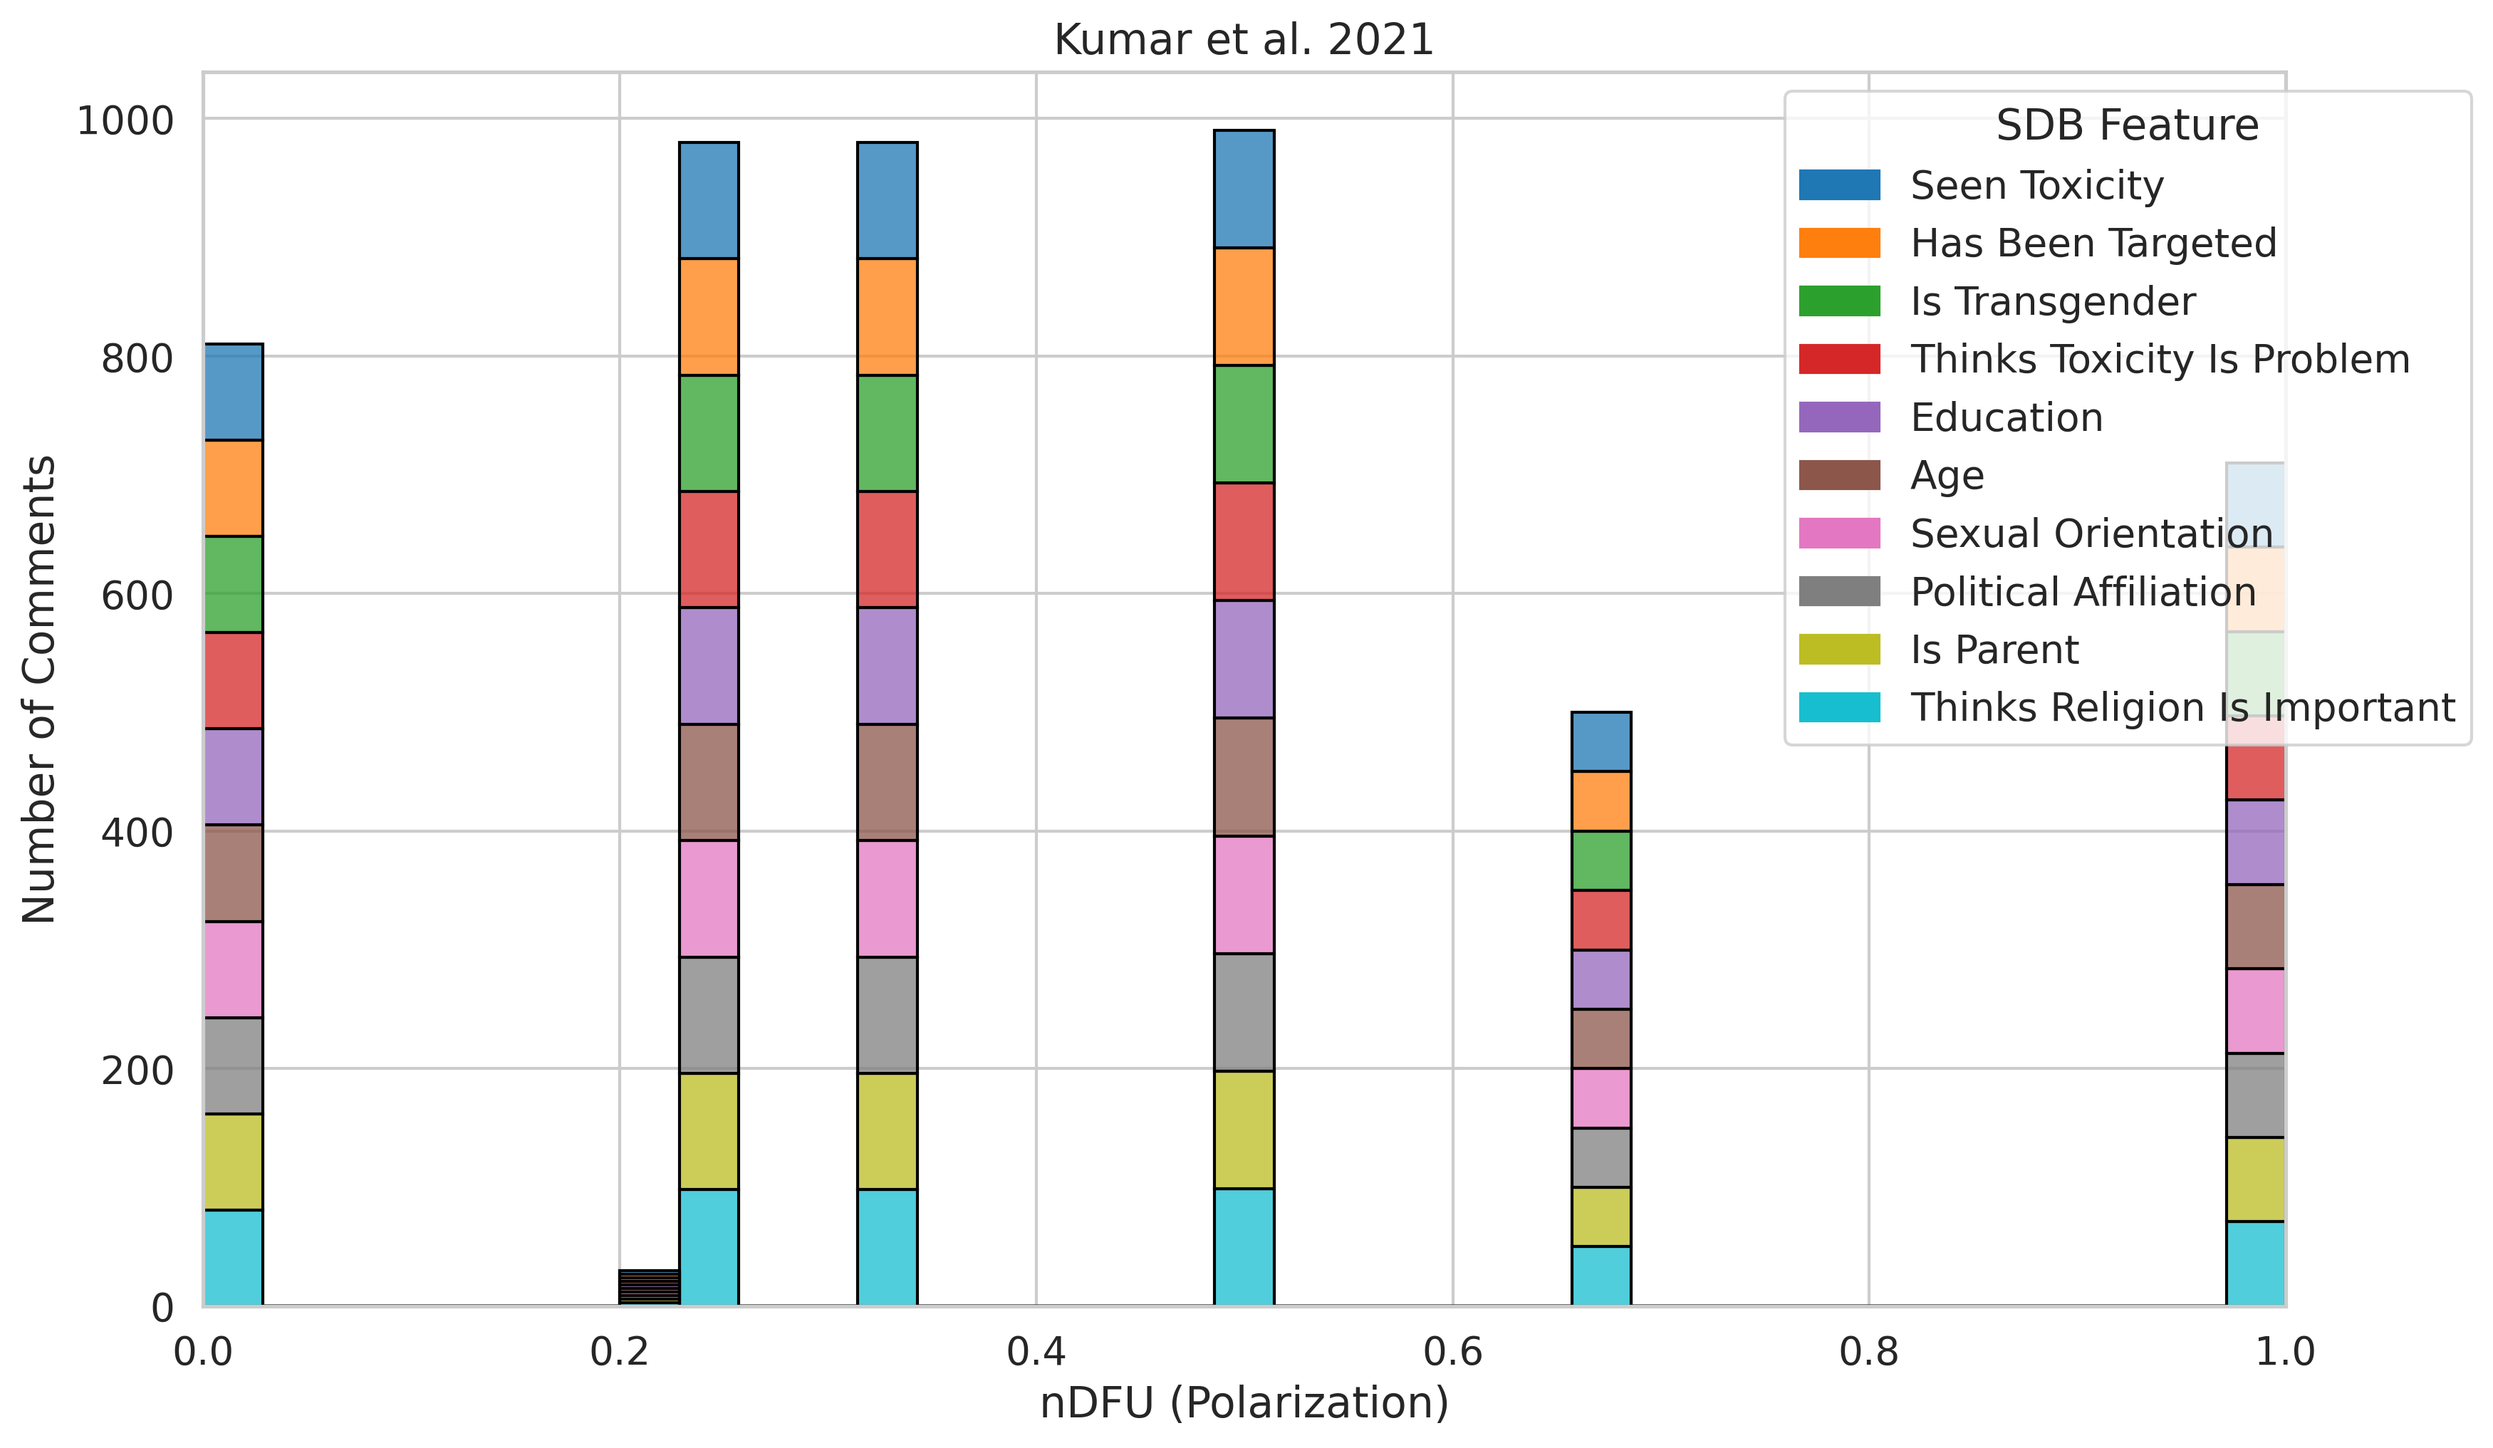
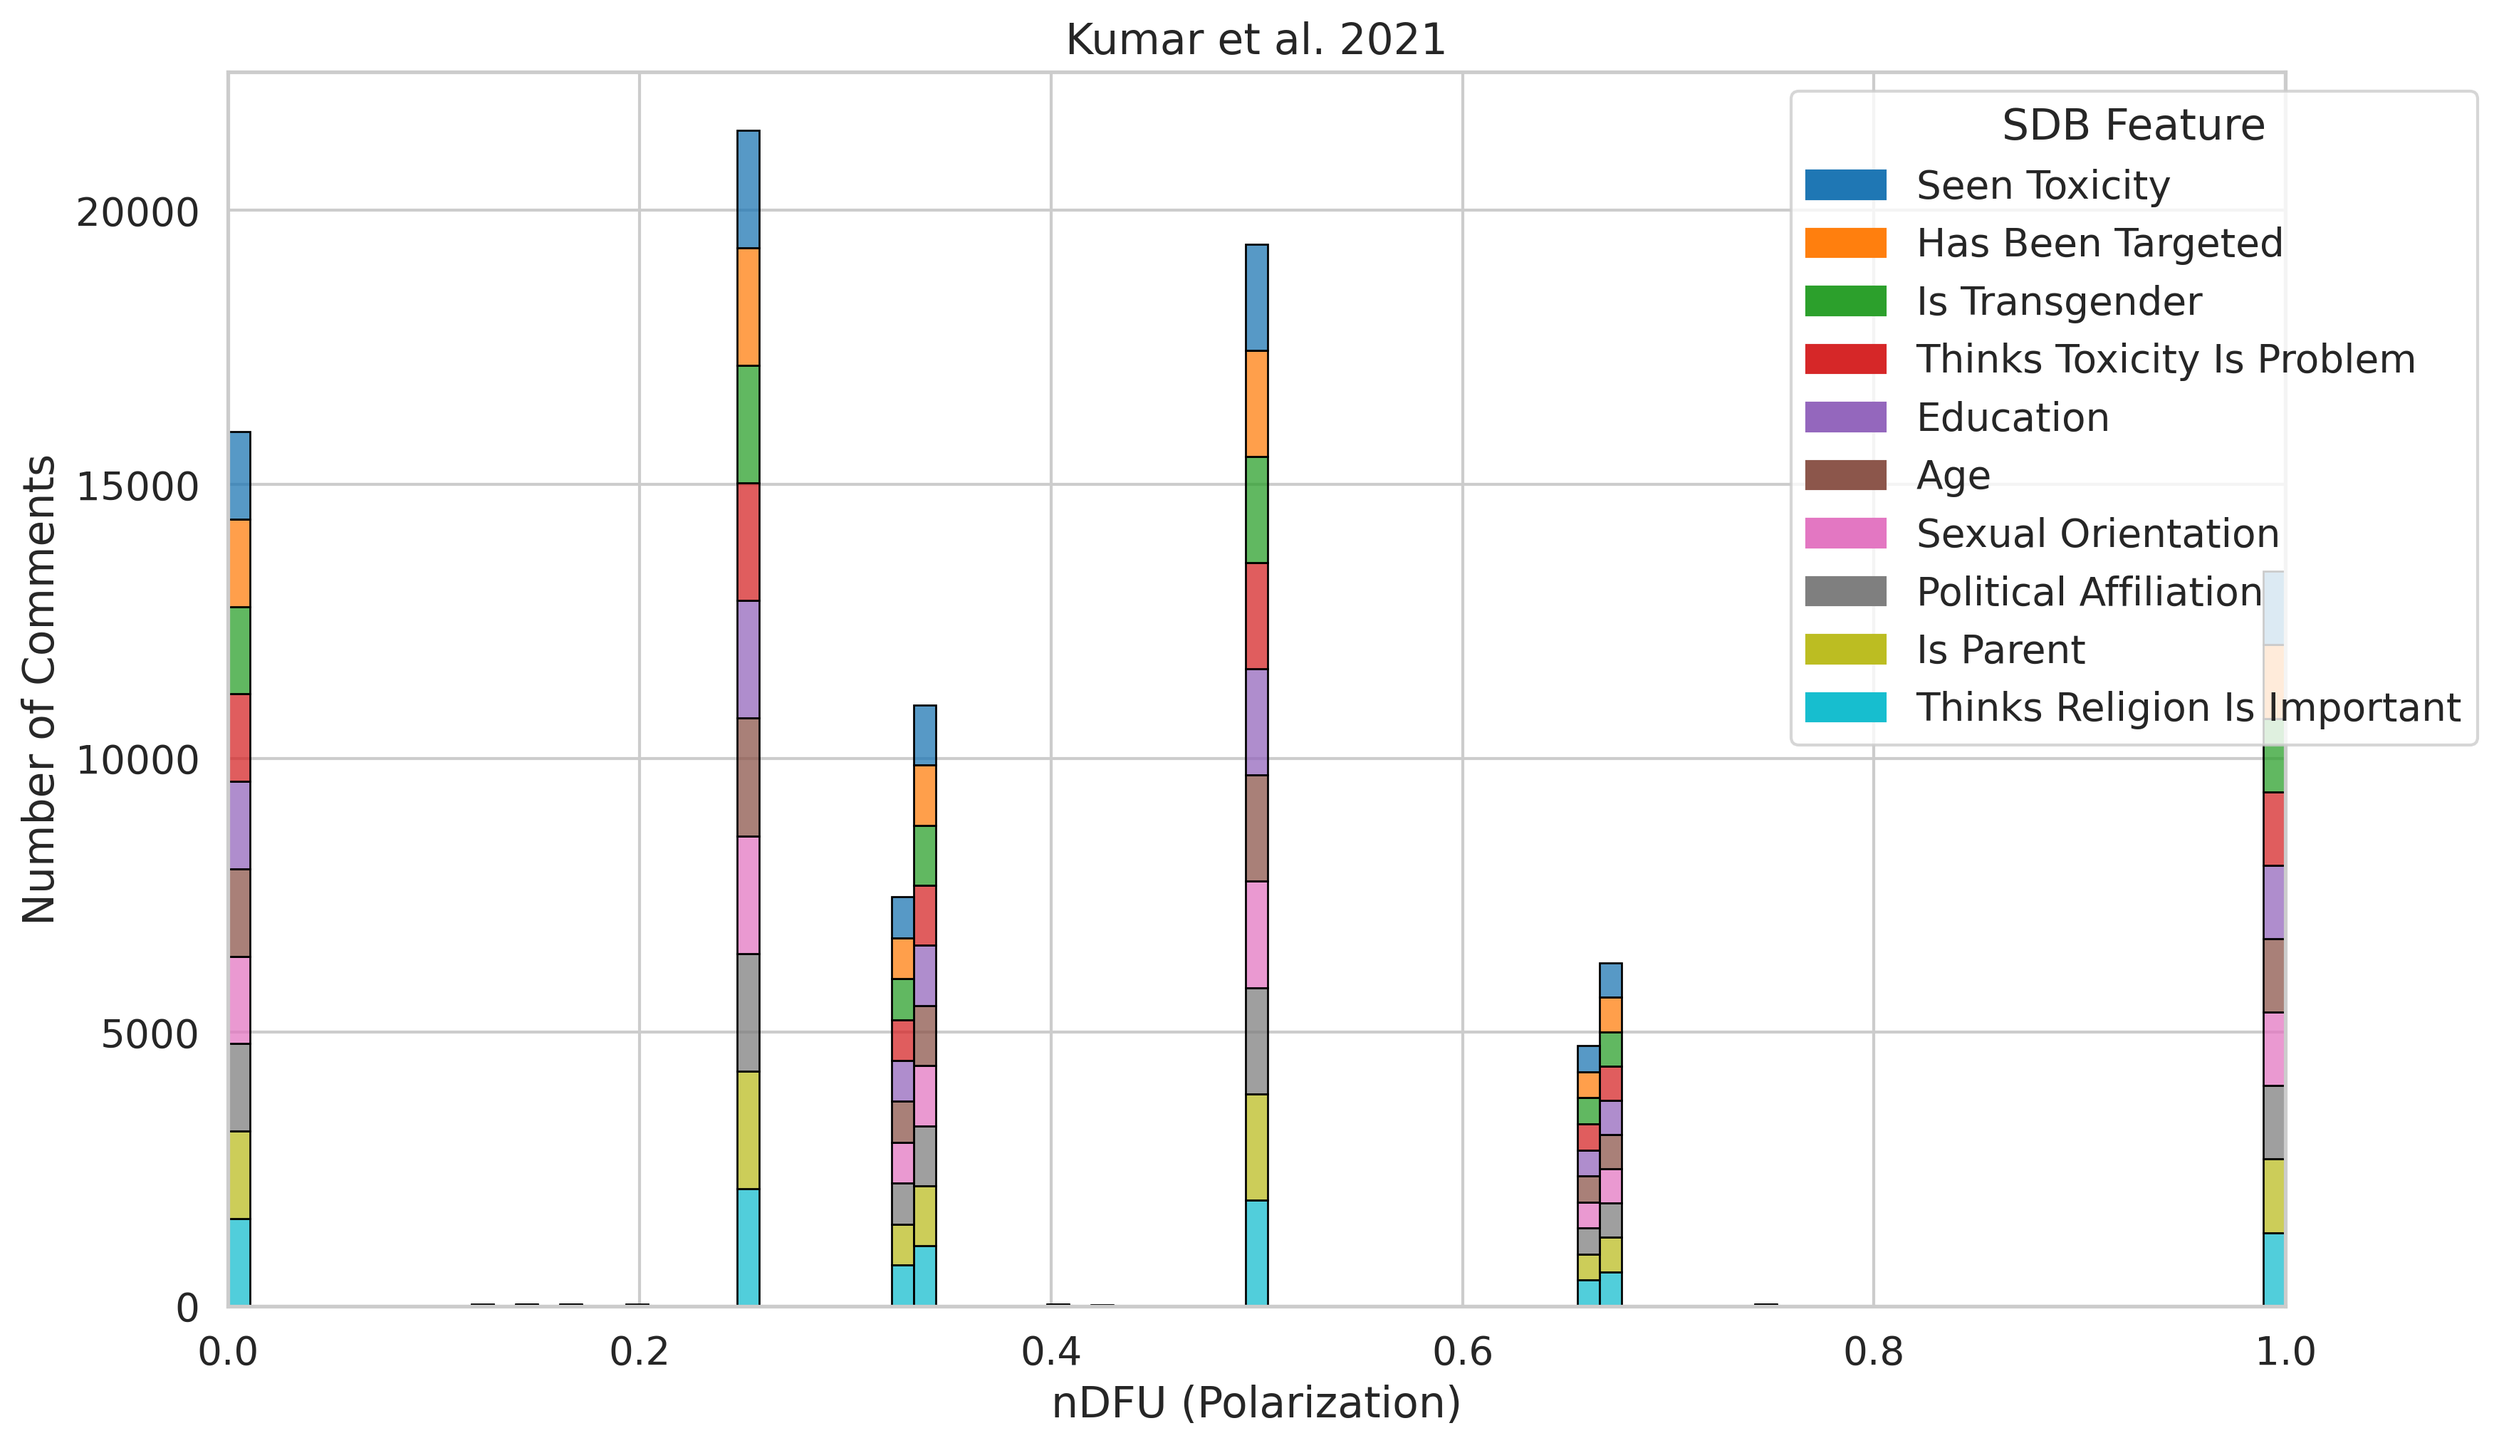
add more samples to kumar and make sampling deterministic

diff --git a/src/real_life_kumar.py b/src/real_life_kumar.py
@@ -6,7 +6,7 @@ import pandas as pd
 from .tasks import preprocessing
 from .tasks import run_helper
 
-NUM_COMMENTS = 500
+NUM_COMMENTS = 10000
 
 
 class KumarDataset(preprocessing.Dataset):
@@ -81,7 +81,7 @@ class KumarDataset(preprocessing.Dataset):
         ]
         df = df.groupby("comment").agg(list)
         print(f"Selecting {num_samples} out of {len(df)} total comments.")
-        df = df.sample(num_samples)
+        df = df.sample(num_samples, random_state=42)
         df = df.reset_index()
         df["random"] = preprocessing.get_rand_col(df, "education")
 
